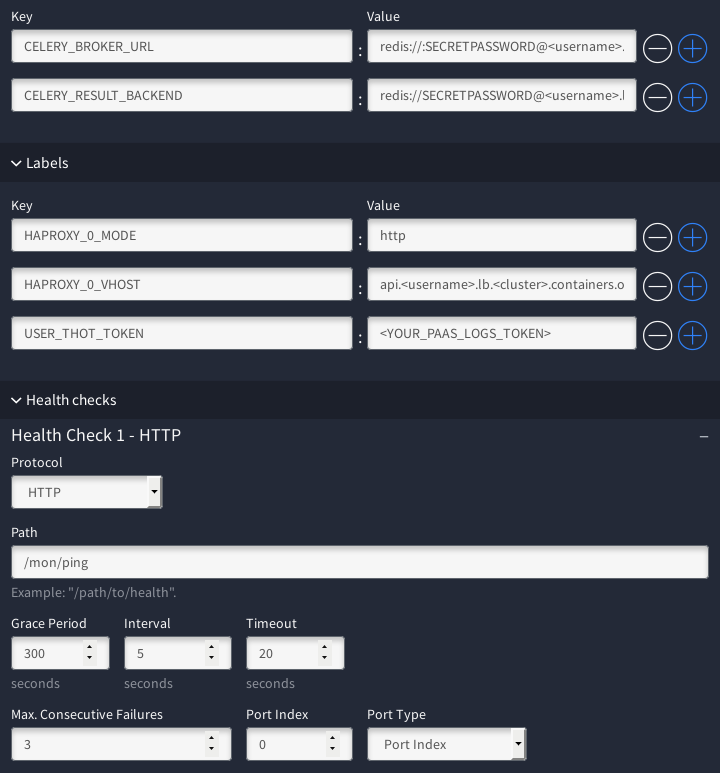
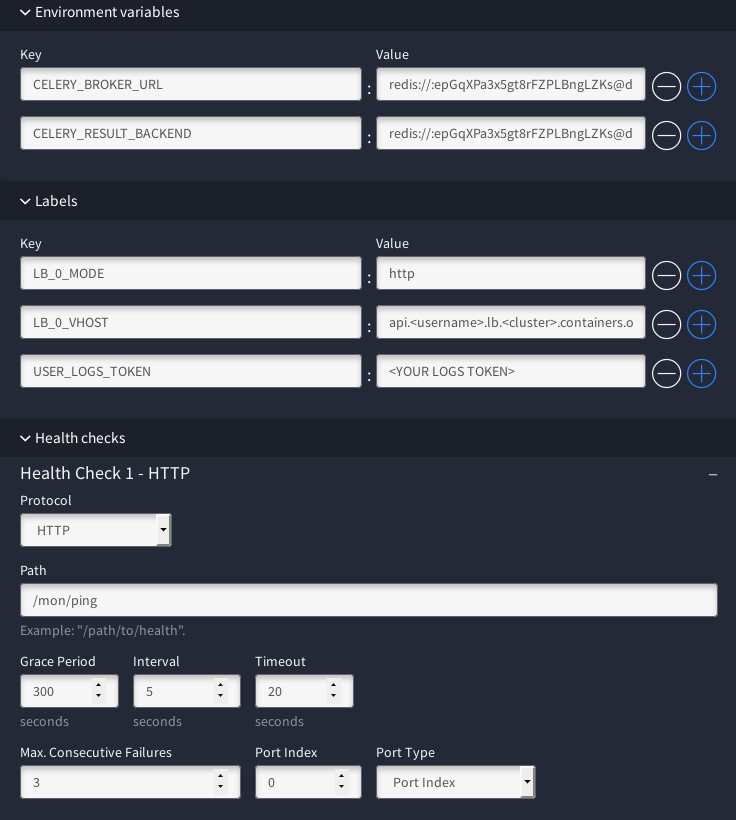
Update Docker PaaS tutorials to include all new changes in the gamma (LB, labels..)

diff --git a/en/_posts/2016-04-20-introduction-to-docker-with-mesos-marathon.md b/en/_posts/2016-04-20-introduction-to-docker-with-mesos-marathon.md
@@ -24,25 +24,24 @@ If you want more information about the Apache Mesos architecture, please read th
 
 ##What is Marathon?
 
-[Marathon](https://mesosphere.github.io/marathon/) is an Apache Mesos framework to run Docker containers. It provides a lot of features like framework high availibility through an active/passive system, anti-affinity constraints to ensure containers are launched on different hosts or racks, application health checks, etc. You can manage your applications and containers using a web UI, allowing you to easily launch new containers, scale your applications, and more.
+[Marathon](https://mesosphere.github.io/marathon/) is an Apache Mesos framework to run long-running processes, such as Docker containers. It provides a lot of features like framework high availibility through an active/passive system, anti-affinity constraints to ensure containers are launched on different hosts or racks, application health checks, etc. You can manage your applications and containers using a web UI or an API, allowing you to easily launch new containers, scale your applications, and more.
 
 #What do we provide?
 
-The Docker PaaS lab is based on all these software stacks, adding some other cool stuff, like redirecting your application Logs to our PaaS Logs, and your application metrics our PaaS Timeseries.. Our lab is stack managed, it means that **we** deploy and manage your infrastructure.
+The Docker PaaS lab is based on all these software stacks, adding some other cool stuff, like redirecting your application Logs to our [PaaS Logs](https://www.runabove.com/paas-logs.xml), and your application metrics the [DBaaS Time Series](https://www.ovh.com/fr/dbaas/timeseries/). Our lab is stack managed, it means that **we** deploy and manage your infrastructure.
 
 ##Your resources are dedicated
 
-We are not providing a pool of slaves where everybody launches containers. You have **dedicated** Public Cloud instances, and dedicated resources. Your containers are running on your instances, and only yours, without noisy neighbours.
-During the beta, you'll be limited to a single (and free) [VPS SSD 3](https://www.ovh.com/fr/vps/vps-ssd.xml). However, you'll be able to add more resources as we advance, not limited to the OVH cloud.
+We are not providing a pool of nodes where everybody launches containers. You have **dedicated** Public Cloud instances, and dedicated resources. Your containers are running on your instances, and only yours, without noisy neighbours. You're of course free to add more resource nodes to be able to deploy more containers.
 
 ##We manage everything
 
 We manage Mesos masters, ZooKeepers, load balancers and Mesos slaves. However, we provide you with an access to the marathon web UI and to your HAProxy load balancer stats.
 
 ##We do not only give you containers
-We provide you with a full stack, integrated with the OVH ecosystem. It means that your stack is fully extensible: as the beta evolves, you'll be able to add new instances, as your needs evolve, from any kind (Public Cloud, Dedicated Server, etc).
+We provide you with a full stack, integrated with the OVH ecosystem. It means that your stack is fully extensible: as the lab evolves, you'll be able to add new instances, as your needs evolve, from any kind (Public Cloud, Dedicated Server, etc).
 
-To easily assess if you have enough resources for your running applications, we provide you with [a way to obtain metrics using the Timeseries PaaS lab](/kb/en/docker/marathon-container-metrics.html), and exploit them with Grafana dashboards.
+To easily assess if you have enough resources for your running applications, we provide you with [a way to visualize your application metrics using the DBaaS Time Series](/kb/en/docker/marathon-container-metrics.html), and exploit them with Grafana dashboards.
 
 Also, you can have access to your application logs [using the PaaS Logs lab](/kb/en/docker/marathon-container-logs.html) in Graylog.
 

diff --git a/en/_posts/2016-04-21-quick-start-with-marathon.md b/en/_posts/2016-04-21-quick-start-with-marathon.md
@@ -6,7 +6,7 @@ author: devatoria
 lang: en
 ---
 
-Welcome to the quick start tutorial of the Docker PaaS lab. This document will help you launch your first application using the Marathon Web UI.
+Welcome to the quick start tutorial of the Docker PaaS lab. This tutorial will help you launch your first application using the Marathon Web UI.
 
 # First and foremost
 
@@ -14,7 +14,7 @@ If you haven't already read our [introduction to Docker with Mesos and Marathon]
 
 #Access to your Marathon Web UI
 
-Once your Mesos slave has been installed, you'll receive an email containing the URL and credentials of your marathon.
+Once your resource node has been installed, you'll receive an email containing the URL and credentials of your marathon. You can of course change this password in the [manager](https://www.ovh.com/manager/sunrise/containers/index.html#/containers).
 
 
 ![Main interface](/kb/images/2016-04-20-quick-start-with-marathon/marathon.png)
@@ -47,7 +47,6 @@ The docker container settings allow you to use multiple docker options defined i
 - **Image**: the name of the docker image, can be prefixed with the URL of the registry to use
 - **Network**: the network to use *(actually, whatever you choose, the network will be defaulted to Bridged)*
 - **Force Pull Image**: enable it if you want the image to be pulled everytime you launch the container, to make sure your app is always based on the ``latest`` tag.
-- **Privileges**: enable this to launch your container in privileged mode *(actually automatically disabled)*
 
 ![Create interface - Docker settings](/kb/images/2016-04-20-quick-start-with-marathon/create_container_2.png)
 
@@ -71,6 +70,10 @@ Now, your container is going to be deployed on a valid host which is able to han
 
 # Accessing your app
 
-You now have access to your nginx server via the URL `https://<username>.lb.sbg-1.containers.ovh.net:10080`, where `<username>` is the login you received by email (for example, `docker-abcdef-1`).
+You now have access to your nginx server via the URL `https://<username>.lb.<cluster>.containers.ovh.net:10080`.
 
-However, if you think that this URL is not elegant enough, fear not and read our [next tutorial](/kb/en/docker/marathon-load-balancer.html)!
+**Note**: you can derive the value of both `username` and `cluster` from the address of your marathon web ui. For example, if your UI URL is `http://lb.sbg-1.containers.ovh.net/marathon/docker-abcdef-1/`, the value of `cluster` and `username` are respectively `sbg-1` and `docker-abcdef-1`.
+
+# Conclusion
+
+You now have a publicly accessible nginx, running in a Docker container. However, it's access URL is not very elegant. Fear not, and learn how to configure your load balancer by reading our [next tutorial](/kb/en/docker/marathon-load-balancer.html)!

diff --git a/en/_posts/2016-04-25-marathon-container-metrics.md b/en/_posts/2016-04-25-marathon-container-metrics.md
@@ -1,12 +1,12 @@
 ---
 layout: post
-title:  "Marathon containers metrics in PaaS Timeseries"
+title:  "Marathon containers metrics in DBaaS Time Series"
 categories: Docker
 author: devatoria
 lang: en
 ---
 
-We integrated the Docker PaaS with the [Timeseries PaaS lab](https://www.runabove.com/iot-paas-timeseries.xml), to allow you to graph your application metrics about your containers in a Grafana dashboard. We automatically send metrics for:
+We integrated the Docker PaaS with the [DBaaS Time Series](https://www.ovh.com/fr/dbaas/timeseries/), to allow you to graph your application metrics about your containers in a Grafana dashboard. We automatically send metrics for:
 
 - CPU usage
 - memory usage
@@ -16,7 +16,7 @@ We integrated the Docker PaaS with the [Timeseries PaaS lab](https://www.runabov
 
 #Configure your token
 
-From the RunAbove manager, join the PaaS Timeseries lab and generate a new credentials pair (read/write). Next, inject the write credentials into your applications using `USER_IOT_ID` and `USER_IOT_KEY` labels.
+From the RunAbove manager, join the DBaaS Time Series lab and generate a new credentials pair (read/write). Next, inject the write credentials into your applications using `USER_TIMESERIES_ID` and `USER_TIMESERIES_KEY` labels.
 
 ![Main interface](/kb/images/2016-04-21-marathon-metrics/metrics.png)
 
@@ -25,7 +25,7 @@ Metrics are aggregated, averaged and pushed every minute.
 #Analyse my data
 ##Create graphs
 
-Once your applications metrics are sent to the PaaS Timeseries, you can create some graphs to easily watch how your applications behave, and adapt your stack according to your needs. Available metrics for graphs are:
+Once your applications metrics are sent to the DBaaS Time Series, you can create some graphs to easily watch how your applications behave, and adapt your stack according to your needs. Available metrics for graphs are:
 
 - cpu
 - memory.usage

diff --git a/en/_posts/2016-04-23-marathon-health-checks.md b/en/_posts/2016-04-23-marathon-health-checks.md
@@ -6,12 +6,13 @@ author: devatoria
 lang: en
 ---
 
-Health checks are useful to ensure that your containers are running; and even better, are behaving as expected. You can add multiple health checks per application. Marathon supports both high level HTTP and lower level TCP health checks.
+Health checks are useful to ensure that your containers are running; and even better, are behaving as expected. If your container is found to be unhealthy, it will be automatically redeployed. You can add multiple health checks per application. Marathon supports both high level HTTP and lower level TCP health checks.
+
 HTTP checks allow for better, higher level checks on a specific URL like `http://localhost:port/my/health/path`. It automatically ignores informational status codes in the range 100 to 199.
 
 # Configure a health check for a nginx application
 
-In the [previous tutorial](/kb/en/docker/quick-start-with-marathon.html), we ran a simple nginx container. Let's now configure some HTTP health check for this application.
+In one of the [previous tutorials](/kb/en/docker/quick-start-with-marathon.html), we deployed and ran a simple nginx container on Marathon. Let's now configure some HTTP health check for this application.
 
 ![Main interface](/kb/images/2016-04-20-marathon-health-checks/health_check.png)
 

diff --git a/en/_posts/2016-06-21-deploying-wordpress-on-marathon.md b/en/_posts/2016-06-21-deploying-wordpress-on-marathon.md
@@ -25,18 +25,7 @@ You can refer to the [PaaS DB tutorial](https://www.ovh.co.uk/g2216.getting_star
 
 ## Restrict access to the database to your container IPs
 
-In order to make your database accessible from your containers only, you have to specify which IPs are authorised to connect to your instance. You can get your containers IP using our API. For example
-
-```bash
-$ curl -u "<username>:<password>" https://lb.<cluster>.containers.ovh.net/api/v1/slaves/ip
-{
-  "objects": [
-    "165.118.227.114",
-    "165.118.231.44"
-  ]
-}
-```
-**Note**: you can derive the value of both `username` and `cluster` from the address of your marathon web ui. For example, if your UI URL is `http://lb.sbg-1.containers.ovh.net/marathon/docker-abcdef-1/`, the value of `cluster` and `username` are respectively `sbg-1` and `docker-abcdef-1`. The password is the one you use to access the Marathon web UI.
+In order to make your database accessible from your containers only, you have to specify which IPs are authorised to connect to your instance. You can get your containers IP in the [manager](https://www.ovh.com/manager/sunrise/containers/index.html#/containers) (a container IP is the public IP of the slave it is running on).
 
 ![whitelist](/kb/images/2016-06-21-deploying-wordpress-on-marathon/whitelist.png)
 

diff --git a/en/_posts/2016-04-24-marathon-container-logs.md b/en/_posts/2016-04-24-marathon-container-logs.md
@@ -10,6 +10,6 @@ It may be useful to send your application logs to the [PaaS Logs RunAbove lab](h
 
 #Inject my token into my container
 
-To be able to push logs into the PaaS Logs platform, you have to generate a new token from the RunAbove user interface. You will find more information on the [PaaS Logs quick start guide](https://community.runabove.com/kb/en/logs/quick-start.html). Once you have your token, you must inject it into your application containers using the label `USER_THOT_TOKEN`, when creating/editing your app.
+To be able to push logs into the PaaS Logs platform, you have to generate a new token from the RunAbove user interface. You will find more information on the [PaaS Logs quick start guide](https://community.runabove.com/kb/en/logs/quick-start.html). Once you have your token, you must inject it into your application containers using the label `USER_LOGS_TOKEN`, when creating/editing your app.
 
 ![Main interface](/kb/images/2016-04-21-marathon-logs/logs.png)
